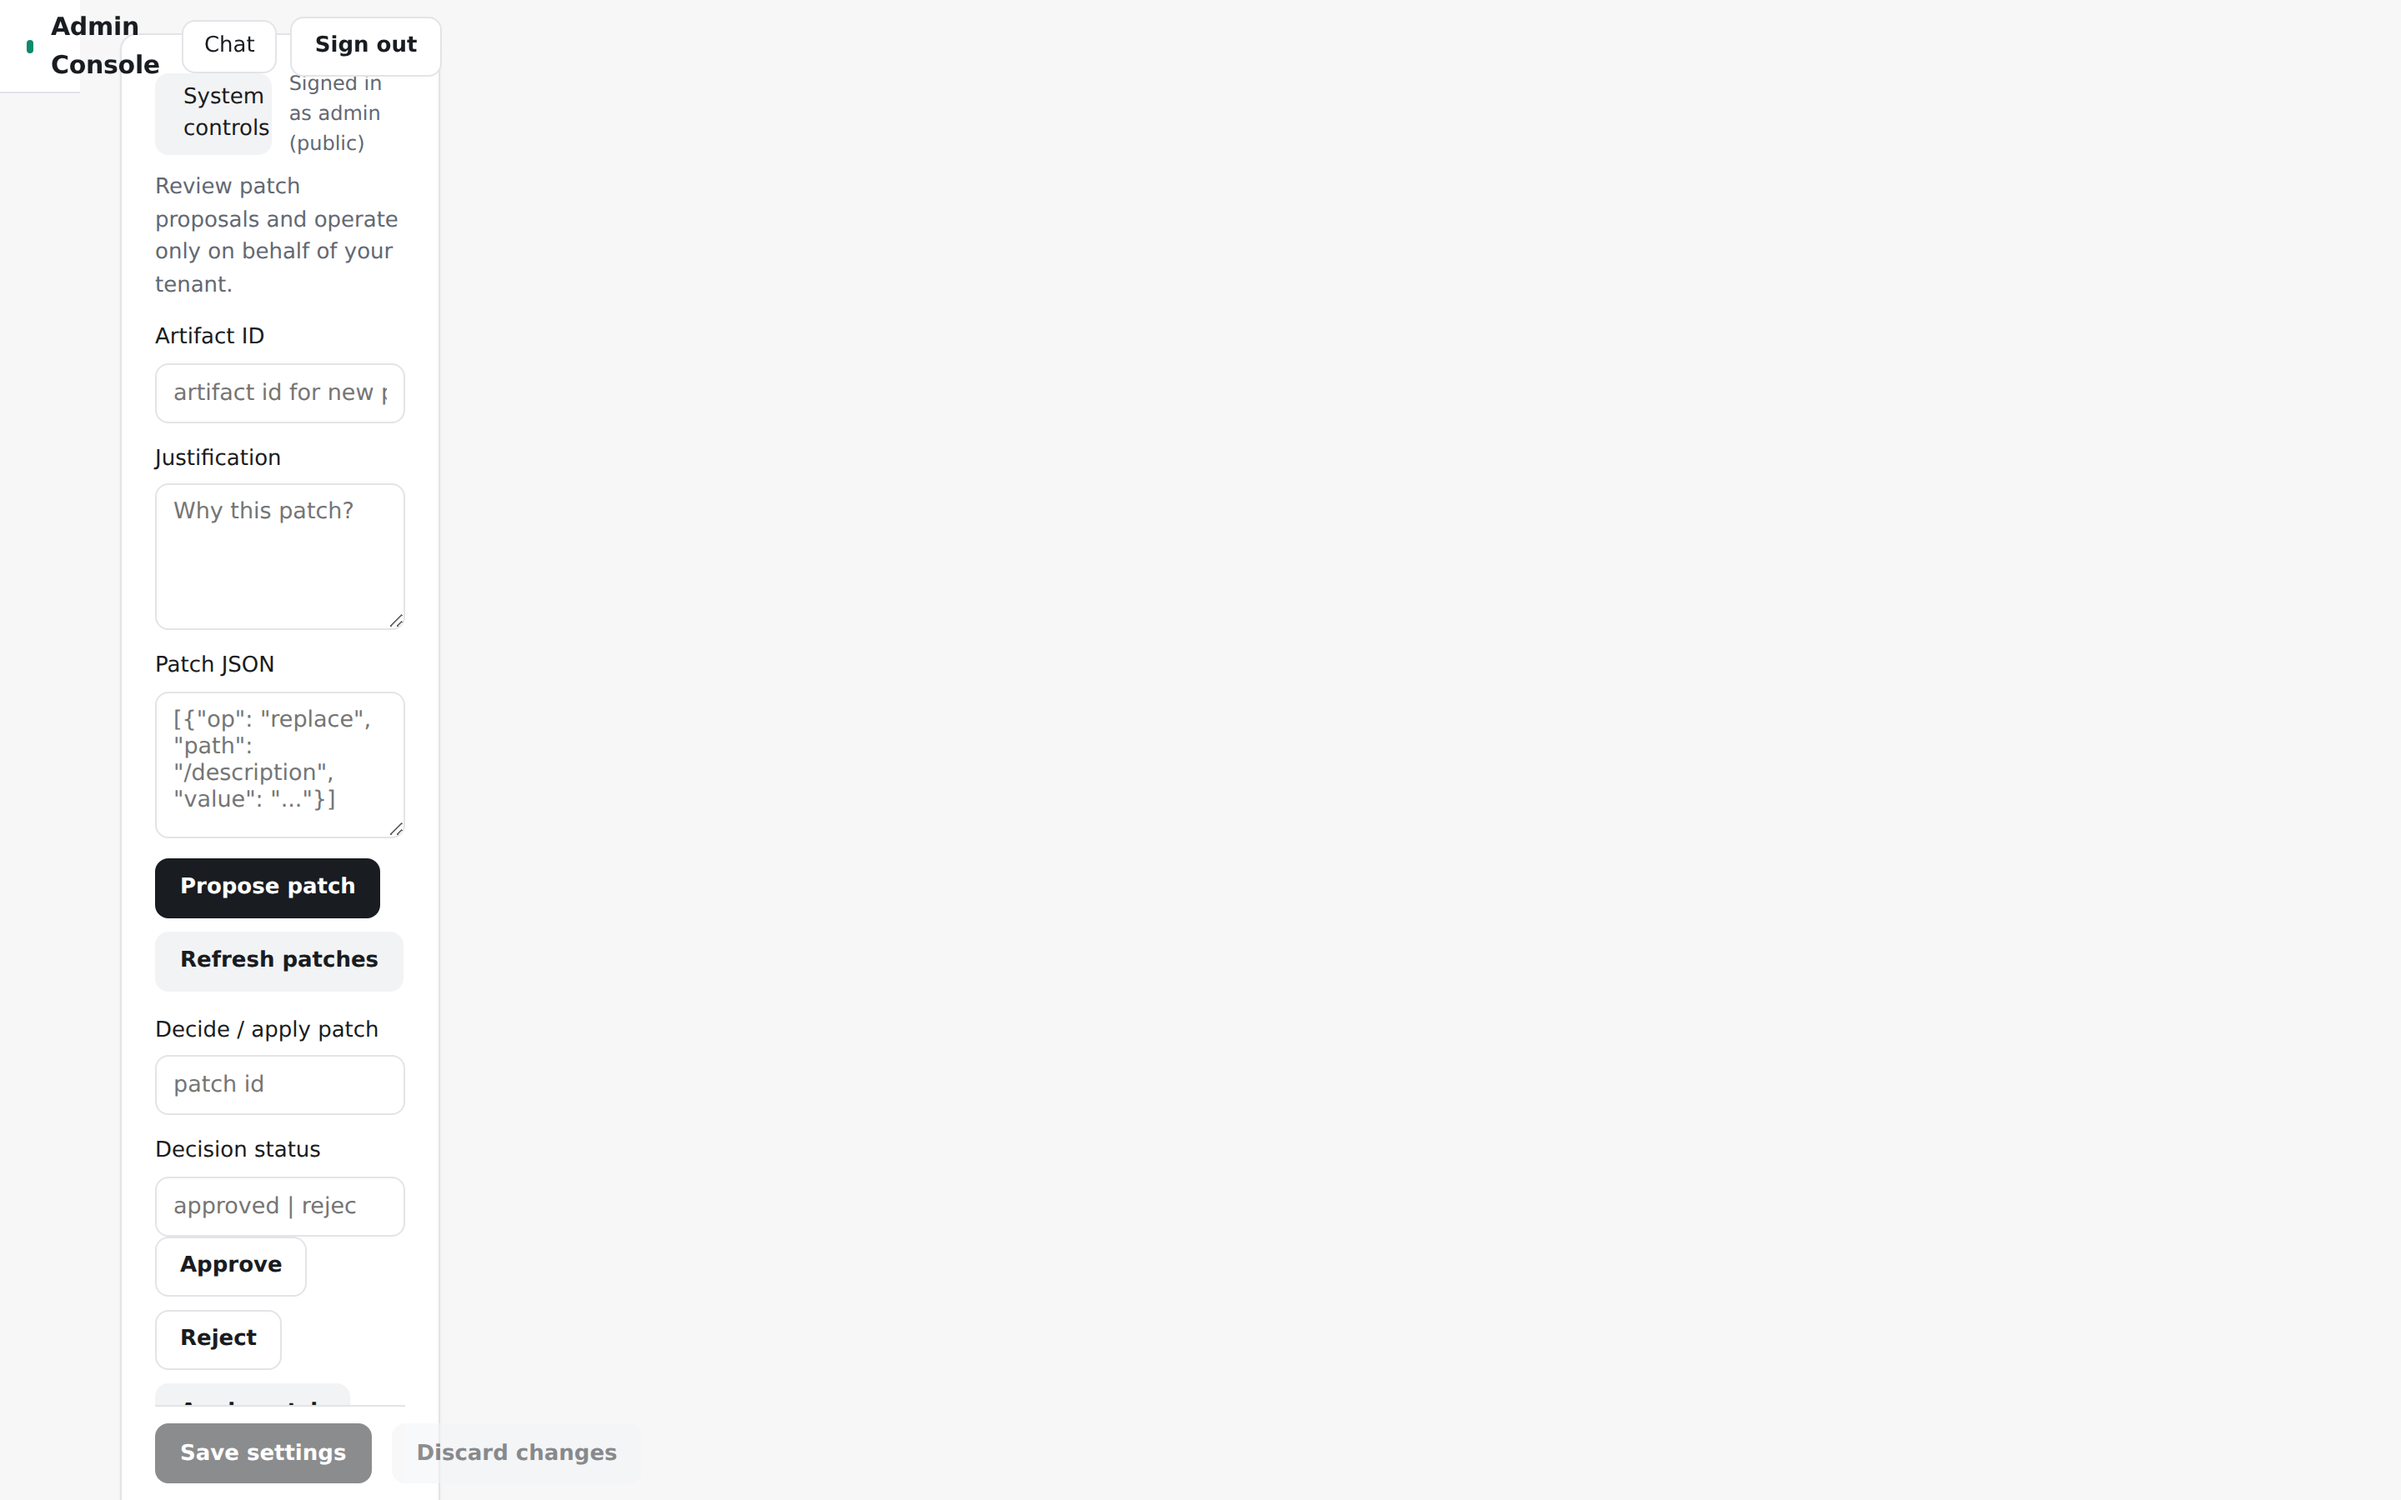
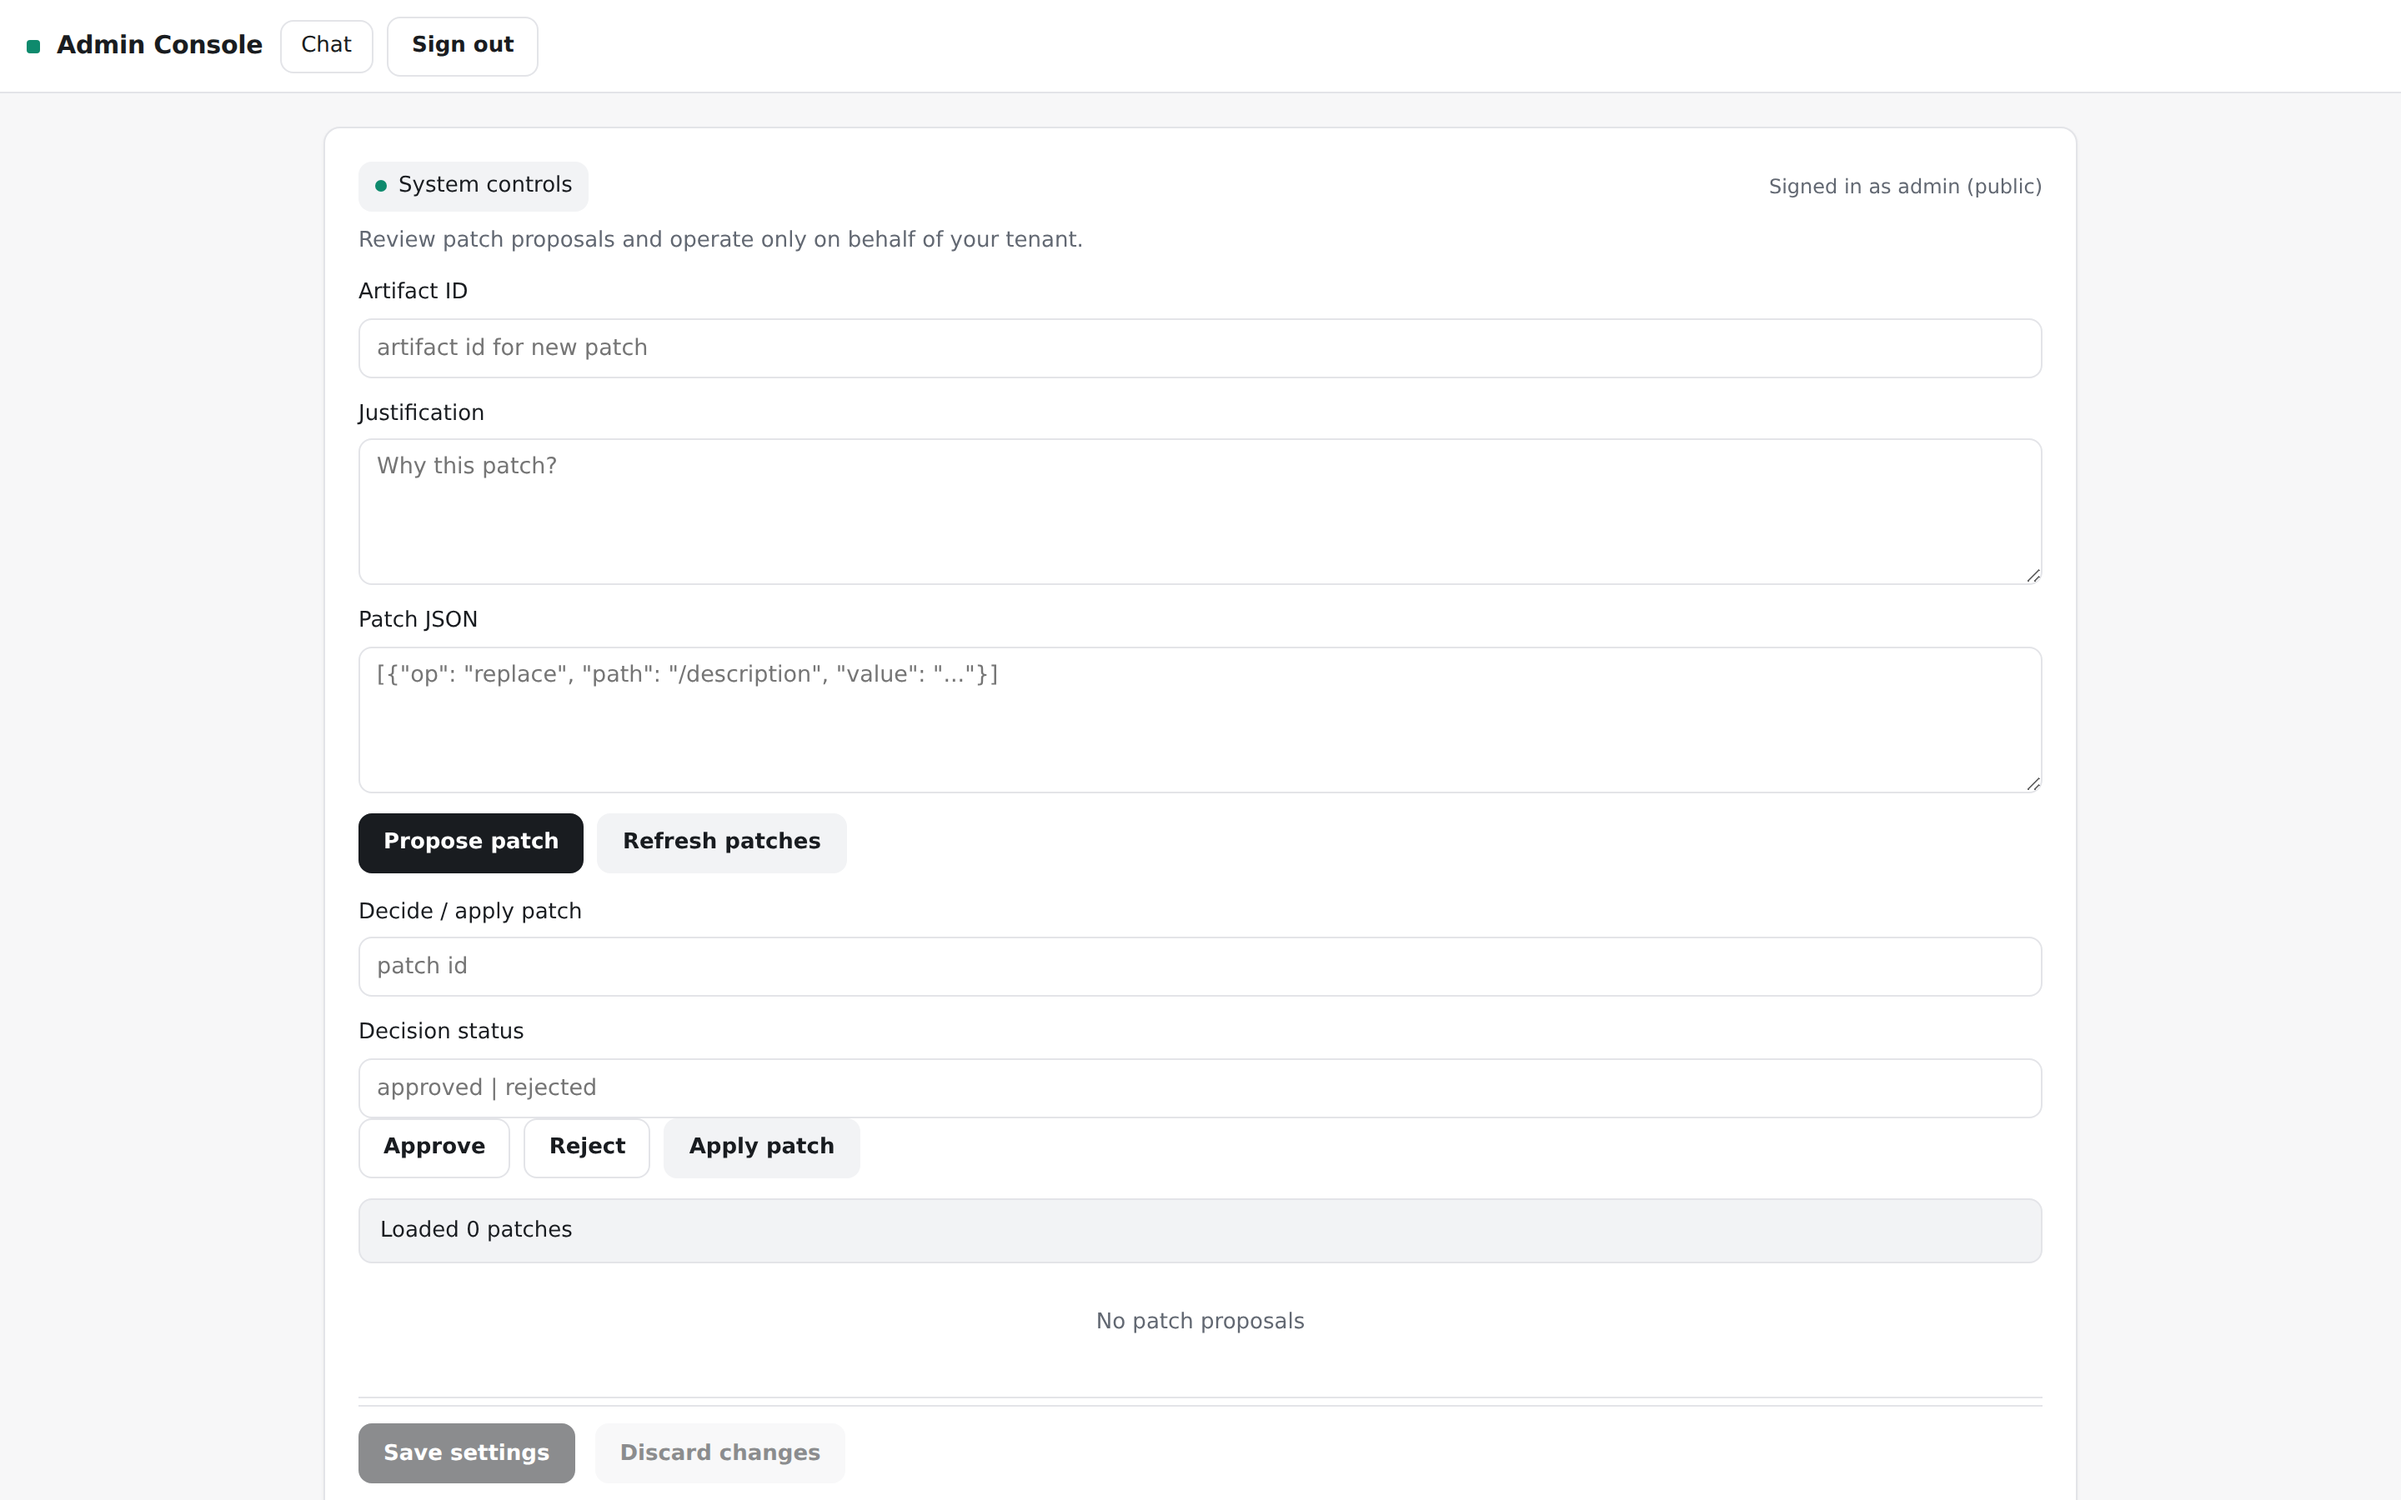
Give every page that wears the shell a page to fill
`.app-shell` became a three-column grid in the rail work, and three pages
wear that class. Only one of them has three bands. The admin console and the
shared-conversation page take the shell for its chrome - a bar, and one
column under it - so their bar landed in the rail's 48px track and their
entire content in the pane's 240px, beside 1200px of empty page. The admin
console's own screenshot, committed in that same change, shows the brand
wrapping inside 48px and the patch form squeezed into a column narrower than
its own placeholder text.

One column is now the default and the bands are opt-in, rather than the
reverse. A page that does not declare bands cannot be crushed by them, which
is the safe direction for the failure: forgetting `banded` gives a plain
page, where forgetting the old opt-out gave an unusable one. `index.html`
carries the class, and every band geometry - including the four collapse
combinations and the mobile block - is scoped to it.

Both pages, because a reported bug is one sighting of a shape. `/share` has
the identical structure and the identical defect, and nothing in the lane
covered either: both are outside the section navigation every other layout
test drives, so all 48 passed while the console was unusable.

The witness asserts the content column is `--content-max` and the bar spans
the viewport, on both pages, plus the other half - that filling the width
does not overflow it. Confirmed red on the geometry itself: 240px of content
[…]

diff --git a/frontend/styles.css b/frontend/styles.css
@@ -44,19 +44,29 @@ body {
   line-height: 1.5;
 }
 
+/* One column by default, because three pages wear this class and only one
+   of them has three bands to lay out. The admin console and the shared
+   conversation page take the shell for its chrome - a bar, and a column
+   under it - so a banded default put their bar in the rail's 48px and their
+   whole content in the pane's 240px, beside 1200px of empty page. A page
+   that does not declare bands must not be crushed by them. */
+.app-shell {
+  display: grid;
+  grid-template-columns: 1fr;
+  min-height: 100vh;
+}
+
 /* Three bands: rail, contextual pane, workspace. The rail and the pane are
    each their own grid column so hiding one is a track going to zero, not a
    reflow of everything beside it. */
-.app-shell {
-  display: grid;
+.app-shell.banded {
   grid-template-columns: var(--rail-width) var(--pane-width) 1fr;
-  min-height: 100vh;
 }
 
 /* No pane for this section, or the reader hid it. Same result, two reasons:
    `no-pane` is the app's answer, `pane-hidden` is the reader's. */
-.app-shell.no-pane,
-.app-shell.pane-hidden {
+.app-shell.banded.no-pane,
+.app-shell.banded.pane-hidden {
   grid-template-columns: var(--rail-width) 0 1fr;
 }
 
@@ -64,13 +74,13 @@ body {
    take away 240px of conversation list: that coupling was right while
    hiding the rail was a modifier gesture meaning "distraction-free", and
    wrong the moment the rail got a control of its own. */
-.app-shell.rail-hidden {
+.app-shell.banded.rail-hidden {
   grid-template-columns: 0 var(--pane-width) 1fr;
 }
 
-.app-shell.rail-hidden.no-pane,
-.app-shell.rail-hidden.pane-hidden,
-.app-shell.signed-out {
+.app-shell.banded.rail-hidden.no-pane,
+.app-shell.banded.rail-hidden.pane-hidden,
+.app-shell.banded.signed-out {
   grid-template-columns: 0 0 1fr;
 }
 
@@ -2732,14 +2742,14 @@ button.minor:hover {
    the only way back to the other sections; the pane becomes an overlay over
    the workspace instead of a column beside it. */
 @media (max-width: 900px) {
-  .app-shell,
-  .app-shell.no-pane,
-  .app-shell.pane-hidden {
+  .app-shell.banded,
+  .app-shell.banded.no-pane,
+  .app-shell.banded.pane-hidden {
     grid-template-columns: var(--rail-width) 0 1fr;
   }
 
   /* The pane is an overlay here, so its track is zero either way. */
-  .app-shell.rail-hidden {
+  .app-shell.banded.rail-hidden {
     grid-template-columns: 0 0 1fr;
   }
 
@@ -2753,7 +2763,7 @@ button.minor:hover {
   /* Signed out the rail has nowhere to go, at this width as at any other.
      Restated here because this block's own rule would otherwise put it
      back. */
-  .app-shell.signed-out {
+  .app-shell.banded.signed-out {
     grid-template-columns: 0 0 1fr;
   }
 

diff --git a/frontend/index.html b/frontend/index.html
@@ -16,7 +16,10 @@
     <script defer src="/static/chat.js"></script>
   </head>
   <body>
-    <div class="app-shell">
+    <!-- `banded`: this is the page with a rail and a pane to put in the
+         first two grid tracks. The admin and share pages wear the same shell
+         for its chrome and have one column, so they leave it off. -->
+    <div class="app-shell banded">
       <!-- Three bands, three questions. The rail says where you are, the
            pane says what exists there, the workspace says what you are
            working on. The rail replaced an eight-tab strip: it spends

diff --git a/tests/test_browser_layout.py b/tests/test_browser_layout.py
@@ -943,3 +943,74 @@ class TestTheResponsiveDefaultIsNotAChoice:
             ) > 0, "the reader restored the rail and it vanished on reload"
         finally:
             context.close()
+
+
+class TestEveryPageThatWearsTheShellGetsAPageToFill:
+    """Three pages use `.app-shell`; only one of them has bands.
+
+    The rail work turned `.app-shell` into `48px 240px 1fr`. The admin console
+    and the shared-conversation page reuse that class for its chrome and have
+    only a bar and one column under it, so their bar landed in the rail's 48px
+    and their entire content in the pane's 240px - on a 1440px screen, beside
+    1200px of nothing.
+
+    Neither page has a rail or a pane to put in those tracks, and neither is
+    reachable from the section navigation the lane's other tests drive, which
+    is why every one of them passed while the console was unusable.
+    """
+
+    #: `.layout` is `max-width: var(--content-max)`, centred. On a page that
+    #: gets the full width that resolves to 1100px; in the pane's track it
+    #: cannot exceed 240.
+    CONTENT_MAX = 1100
+
+    @pytest.mark.parametrize("path", ["/admin", "/share"], ids=["admin", "share"])
+    def test_the_page_gets_the_width_of_the_page(self, browser, server, path):
+        context = browser.new_context(viewport=DESKTOP)
+        page = context.new_page()
+        try:
+            page.goto(f"{server.base_url}{path}", wait_until="domcontentloaded")
+            page.wait_for_selector(".app-shell", state="attached")
+            page.wait_for_timeout(400)
+
+            measured = page.evaluate(
+                """() => {
+                  const box = (sel) => {
+                    const el = document.querySelector(sel);
+                    return el ? Math.round(el.getBoundingClientRect().width) : -1;
+                  };
+                  return {
+                    bar: box('.topbar'),
+                    content: box('main.layout'),
+                    viewport: window.innerWidth,
+                  };
+                }"""
+            )
+
+            assert measured["content"] == self.CONTENT_MAX, (
+                f"{path} rendered its content {measured['content']}px wide on a "
+                f"{measured['viewport']}px page; the pane's track is 240 and "
+                f"the content column is {self.CONTENT_MAX}"
+            )
+            assert measured["bar"] == measured["viewport"], (
+                f"{path} put its bar in {measured['bar']}px; the rail's track "
+                f"is 48 and the bar spans the page"
+            )
+        finally:
+            context.close()
+
+    @pytest.mark.parametrize("path", ["/admin", "/share"], ids=["admin", "share"])
+    def test_the_page_does_not_scroll_sideways(self, browser, server, path):
+        """The other half: filling the width must not overflow it."""
+        context = browser.new_context(viewport=DESKTOP)
+        page = context.new_page()
+        try:
+            page.goto(f"{server.base_url}{path}", wait_until="domcontentloaded")
+            page.wait_for_selector(".app-shell", state="attached")
+            page.wait_for_timeout(400)
+            overflow = page.evaluate(
+                "() => document.documentElement.scrollWidth - window.innerWidth"
+            )
+            assert overflow <= 0, f"{path} is {overflow}px wider than its viewport"
+        finally:
+            context.close()
